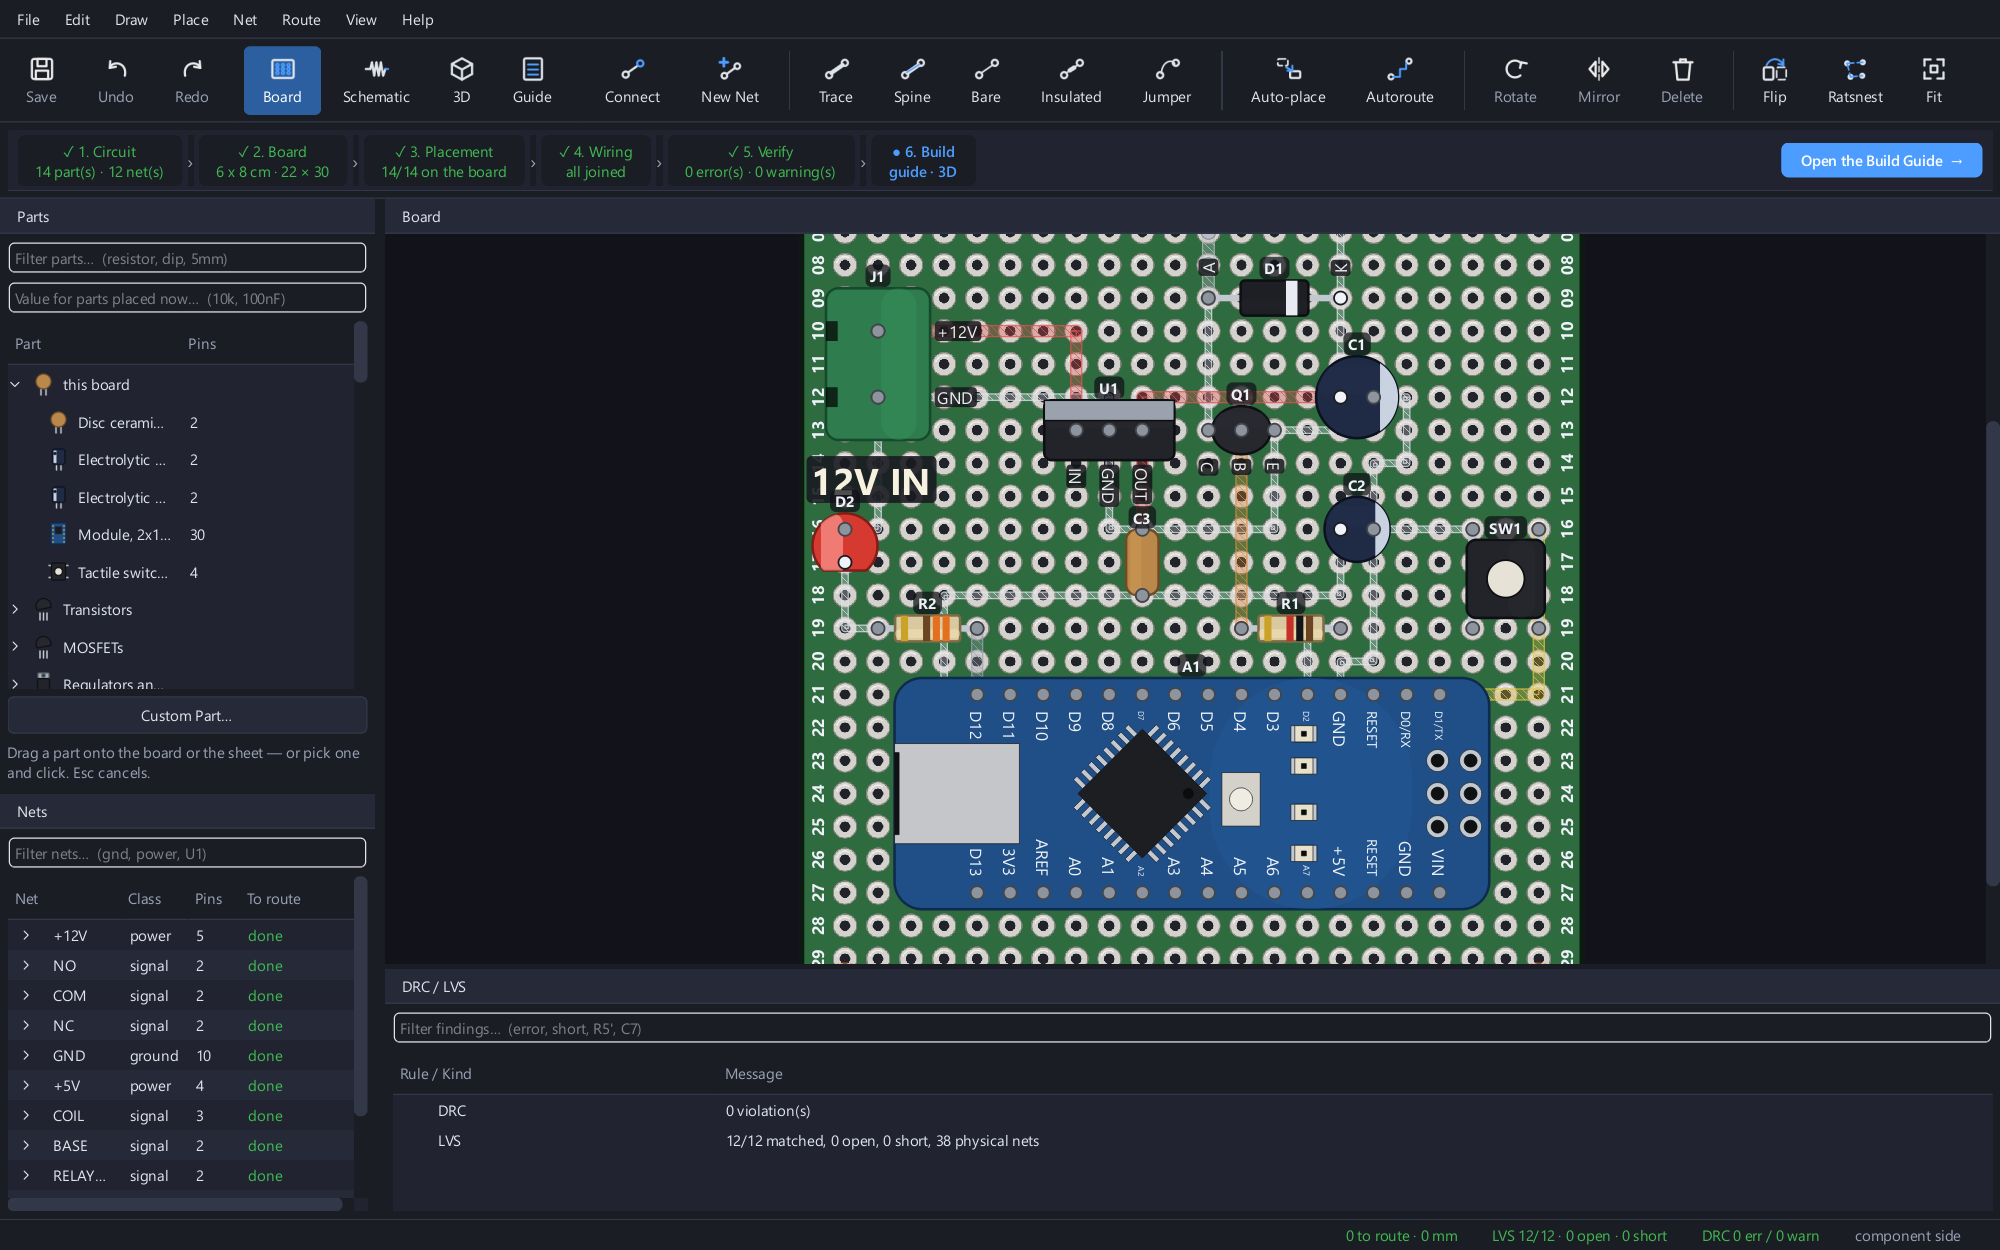
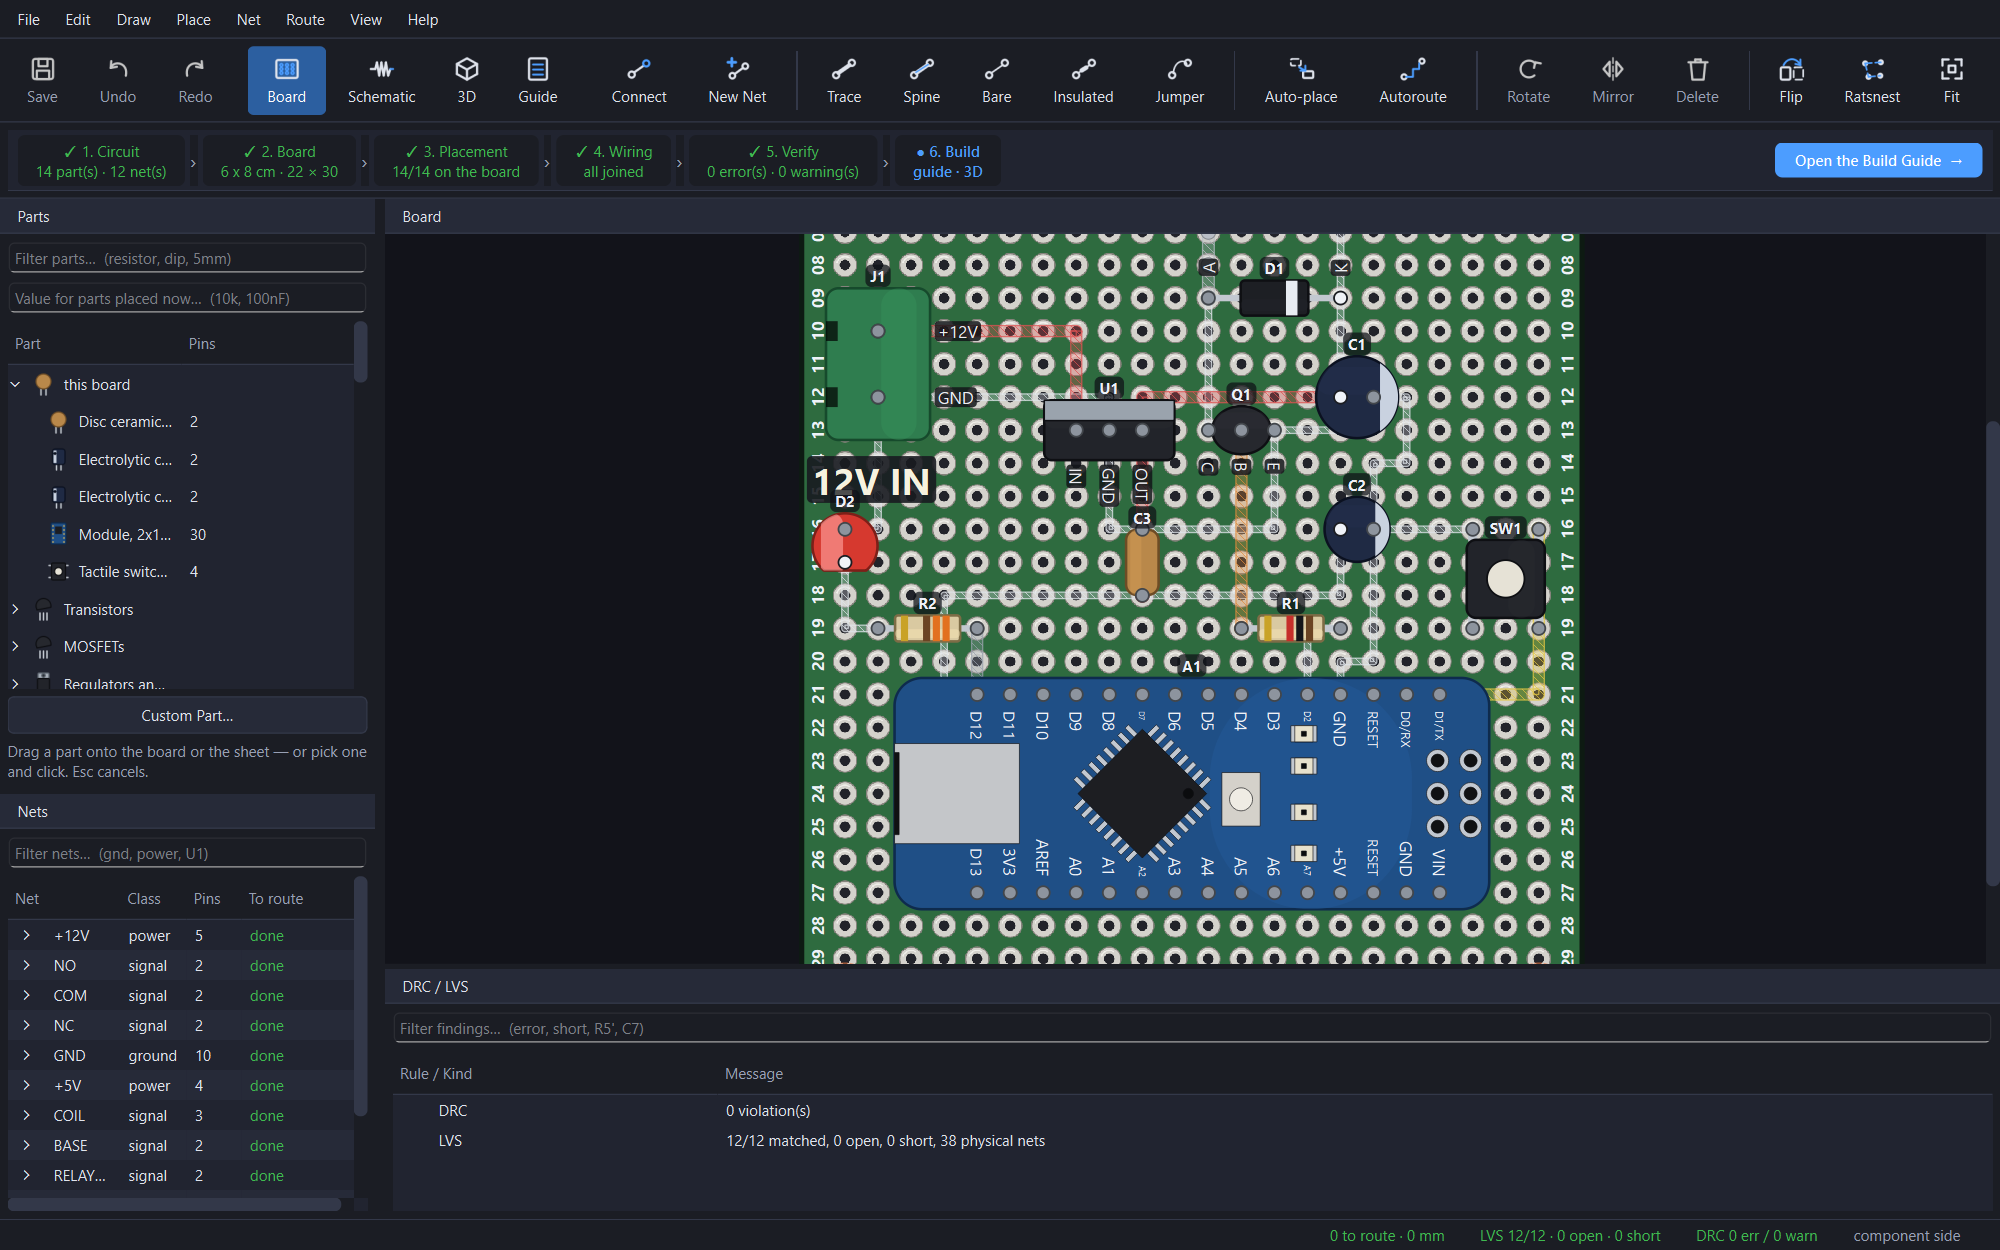
Screenshots: the 3D view and the guide in the window, at a pinned scale
A new picture, guide-and-3d.png: nano-relay with the board, the 3D view
and the build guide side by side, eight steps ticked off and Next Step
to Do on the 7805 -- selected on the board, picked out in 3D, the 3D
view at that moment of the build. It is what 0.17 changed most, and no
picture showed any of it.

The 3D panel cannot be grabbed with the rest of the window: VTK draws
into a native window of its own and QWidget.grab paints it empty. So the
window is grabbed and the panel's frame read back from VTK and painted
into its rectangle.

The scale is now pinned rather than taken from the monitor. The last set
was 2000 x 1250 off a 125 % display and the same script made 1600 x 1000
on a 100 % one, while make_social_preview.py crops this set at fixed
pixel coordinates. Platform scaling is switched off, QT_SCALE_FACTOR set
to 1.25, and the window FIXED at 1600 x 1000 -- Windows clips a resized
window to the screen's height, which at 125 % on 1080 lines is 864.

The other editor shots differ from the last set only in how the text is
hinted at the pinned scale; the 3D board and the assembly animation came
out the same and are not part of this commit.

diff --git a/tools/screenshots.py b/tools/screenshots.py
@@ -17,28 +17,46 @@ particular pictures is the application around the board: the nets panel, the too
 the DRC/LVS dock and the status bar all carry information that a bare board render does
 not, and a README's job is to show what the thing looks like to use.
 
-The 3D shot goes through ``view3d.render_offscreen`` instead of grabbing the 3D dock.
-Grabbing the dock does not work and quietly produces a black rectangle: the panel builds
-its widget from a visibility signal and VTK renders into it on some later trip through
-the event loop, so a grab taken from the same script always wins the race. Offscreen is
-also the path the build guide's step images take, so this picture is a real product of
-the shipping code rather than a special case.
+The 3D shots go through ``view3d.render_offscreen`` instead of grabbing the 3D dock.
+Grabbing the dock does not work and quietly produces a black rectangle: VTK draws into a
+native window of its own, which ``QWidget.grab`` cannot see. Offscreen is also the path
+the build guide's step images take, so this picture is a real product of the shipping
+code rather than a special case. The one shot of the 3D panel IN the window
+(``guide-and-3d.png``) grabs the window and then pastes in what the panel's own render
+window holds, read back from VTK -- see ``_grab_with_3d``.
 
 The window is shown briefly on a real display, which is unavoidable: Qt's offscreen
 plugin has no font database on Windows (see ``_default_headless_platform`` in
 ui/main.py), so an offscreen grab would come back with every label as a missing-glyph
-box.
+box -- and the 3D panel needs a real window to draw in.
+
+**The scale is pinned, not taken from the monitor.** Every editor shot is the window at
+``WINDOW_SIZE`` drawn at ``SCALE``, so 2000 x 1250 pixels on any machine. Taken from the
+monitor, the same script made 2000-pixel pictures on a 125 % laptop and 1600-pixel ones
+on a 100 % desktop, and ``tools/make_social_preview.py`` crops this set at fixed pixel
+coordinates. And the size is FIXED rather than resized to: Windows clips a window to the
+height of the screen it opens on, and at 125 % a 1080-line screen is 864 lines tall.
 """
 
 from __future__ import annotations
 
+import os
 import sys
 from pathlib import Path
 
 REPO_ROOT = Path(__file__).resolve().parent.parent
 sys.path.insert(0, str(REPO_ROOT / "src"))
 
-from PySide6.QtWidgets import QApplication  # noqa: E402
+#: The window's size in the units the interface is laid out in, and how many pixels each
+#: of those is drawn with. Set before Qt is imported, which is when it reads them: the
+#: platform's own scaling is switched off so the monitor cannot multiply into ``SCALE``.
+WINDOW_SIZE = (1600, 1000)
+SCALE = "1.25"
+os.environ["QT_ENABLE_HIGHDPI_SCALING"] = "0"
+os.environ["QT_SCALE_FACTOR"] = SCALE
+
+from PySide6.QtGui import QPixmap  # noqa: E402
+from PySide6.QtWidgets import QApplication, QMainWindow  # noqa: E402
 
 from perfboard_studio import persist  # noqa: E402
 from perfboard_studio.footprints import footprint_lookup  # noqa: E402
@@ -103,6 +121,13 @@ def _fresh_settings() -> None:
     main_module.app_settings = lambda: store  # type: ignore[assignment]
 
 
+def _open(window: QMainWindow, app: QApplication) -> None:
+    """Show the window at exactly ``WINDOW_SIZE`` -- fixed, see this module's docstring."""
+    window.setFixedSize(*WINDOW_SIZE)
+    window.show()
+    _settle(app)
+
+
 def main() -> int:
     OUT_DIR.mkdir(parents=True, exist_ok=True)
 
@@ -116,9 +141,7 @@ def main() -> int:
         return 1
 
     window = MainWindow(result.document, FIXTURE)
-    window.resize(1600, 1000)
-    window.show()
-    _settle(app)
+    _open(window, app)
 
     # Auto-place, then route -- the order the README documents, so the picture is of the
     # workflow it describes rather than of a fixture. The golden document's placement is
@@ -196,6 +219,10 @@ def main() -> int:
 
     if not _nano_relay_shots(app, shots):
         return 1
+    # Last, because it opens the 3D view and the guide, and every window after it would
+    # restore them from the settings it leaves behind.
+    if not _guide_and_3d_shot(app, shots):
+        return 1
 
     for name, what in shots:
         size = (OUT_DIR / name).stat().st_size
@@ -223,9 +250,7 @@ def _nano_relay_shots(app: QApplication, shots: list[tuple[str, str]]) -> bool:
     lookup = footprint_lookup()
 
     window = MainWindow(document, NANO_RELAY)
-    window.resize(1600, 1000)
-    window.show()
-    _settle(app)
+    _open(window, app)
     window.act_ratsnest.setChecked(False)
     _settle(app)
 
@@ -280,6 +305,95 @@ def _nano_relay_shots(app: QApplication, shots: list[tuple[str, str]]) -> bool:
     writer.Write()
     shots.append(("module-3d.png", "3D close-up: a module on its headers"))
     return True
+
+
+#: How many of nano-relay's steps are ticked off in the guide shot: every part in the first
+#: three phases, so Next Step to Do lands on the regulator, which stands out in 3D.
+STEPS_DONE = 8
+
+#: How far the 3D panel's camera is brought in from where it opens, as a scroll of the
+#: wheel would: the opening frame fits the whole board with room to turn it, which in a
+#: third of the window leaves the parts small.
+CAMERA_ZOOM = 1.3
+
+
+def _guide_and_3d_shot(app: QApplication, shots: list[tuple[str, str]]) -> bool:
+    """The board, the 3D view and the build guide side by side, part-way through a build:
+    some steps ticked off, and Next Step to Do showing the next one in all three."""
+    from PySide6.QtCore import Qt
+
+    result = persist.deserialize_document(NANO_RELAY.read_text(encoding="utf-8"))
+    if not result.ok:
+        print(f"LOAD FAILED [{result.code}] {result.message}")
+        return False
+
+    window = MainWindow(result.document, NANO_RELAY)
+    _open(window, app)
+    window.act_ratsnest.setChecked(False)
+    # The parts and nets panels closed, as somebody at the bench would: what this picture
+    # is about needs the width, and the editor shots show those two already.
+    window.dock_library.close()
+    window.dock_nets.close()
+    window.act_show_3d.trigger()
+    _settle(app, 30)
+    window.act_show_guide.trigger()
+    _settle(app, 30)
+
+    for leaf in window._guide_leaves()[:STEPS_DONE]:
+        leaf.setCheckState(0, Qt.CheckState.Checked)
+    window.on_next_step_to_do()
+    _settle(app, 30)
+    window.view.fit_board()
+    _settle(app, 30)
+
+    renderer = window._vtk_renderer
+    if renderer is None:
+        print("THE 3D VIEW DID NOT OPEN")
+        return False
+    renderer.GetActiveCamera().Zoom(CAMERA_ZOOM)
+    renderer.ResetCameraClippingRange()
+    _grab_with_3d(window).save(str(OUT_DIR / "guide-and-3d.png"))
+    shots.append(("guide-and-3d.png", "board, 3D and the guide, part-way through a build"))
+
+    window._mark_saved()
+    window.close()
+    _settle(app)
+    return True
+
+
+def _grab_with_3d(window: MainWindow) -> QPixmap:
+    """The window as ``grab`` sees it, with the 3D panel's picture put back in.
+
+    ``grab`` paints every widget into a pixmap and the 3D panel is not a widget it can
+    paint: VTK draws into a native window of its own, so the panel comes back empty. What
+    VTK last drew is still in its render window, and ``vtkWindowToImageFilter`` reads it
+    back -- drawn again first, so it is the frame with the camera as it is now.
+    """
+    import tempfile
+
+    from PySide6.QtCore import QPoint, QRect
+    from PySide6.QtGui import QImage, QPainter
+
+    pixmap = window.grab()
+    widget = window.vtk_widget
+    render_window = widget.GetRenderWindow()
+    render_window.Render()
+    readback = view3d.vtk.vtkWindowToImageFilter()
+    readback.SetInput(render_window)
+    readback.ReadFrontBufferOff()
+    readback.Update()
+    frame = Path(tempfile.mkdtemp()) / "3d.png"
+    writer = view3d.vtk.vtkPNGWriter()
+    writer.SetFileName(str(frame))
+    writer.SetInputConnection(readback.GetOutputPort())
+    writer.Write()
+
+    # The pixmap is painted in the window's units and the frame is in pixels, so the frame
+    # is drawn into the panel's rectangle in units and lands one pixel for one.
+    painter = QPainter(pixmap)
+    painter.drawImage(QRect(widget.mapTo(window, QPoint(0, 0)), widget.size()), QImage(str(frame)))
+    painter.end()
+    return pixmap
 
 
 if __name__ == "__main__":
